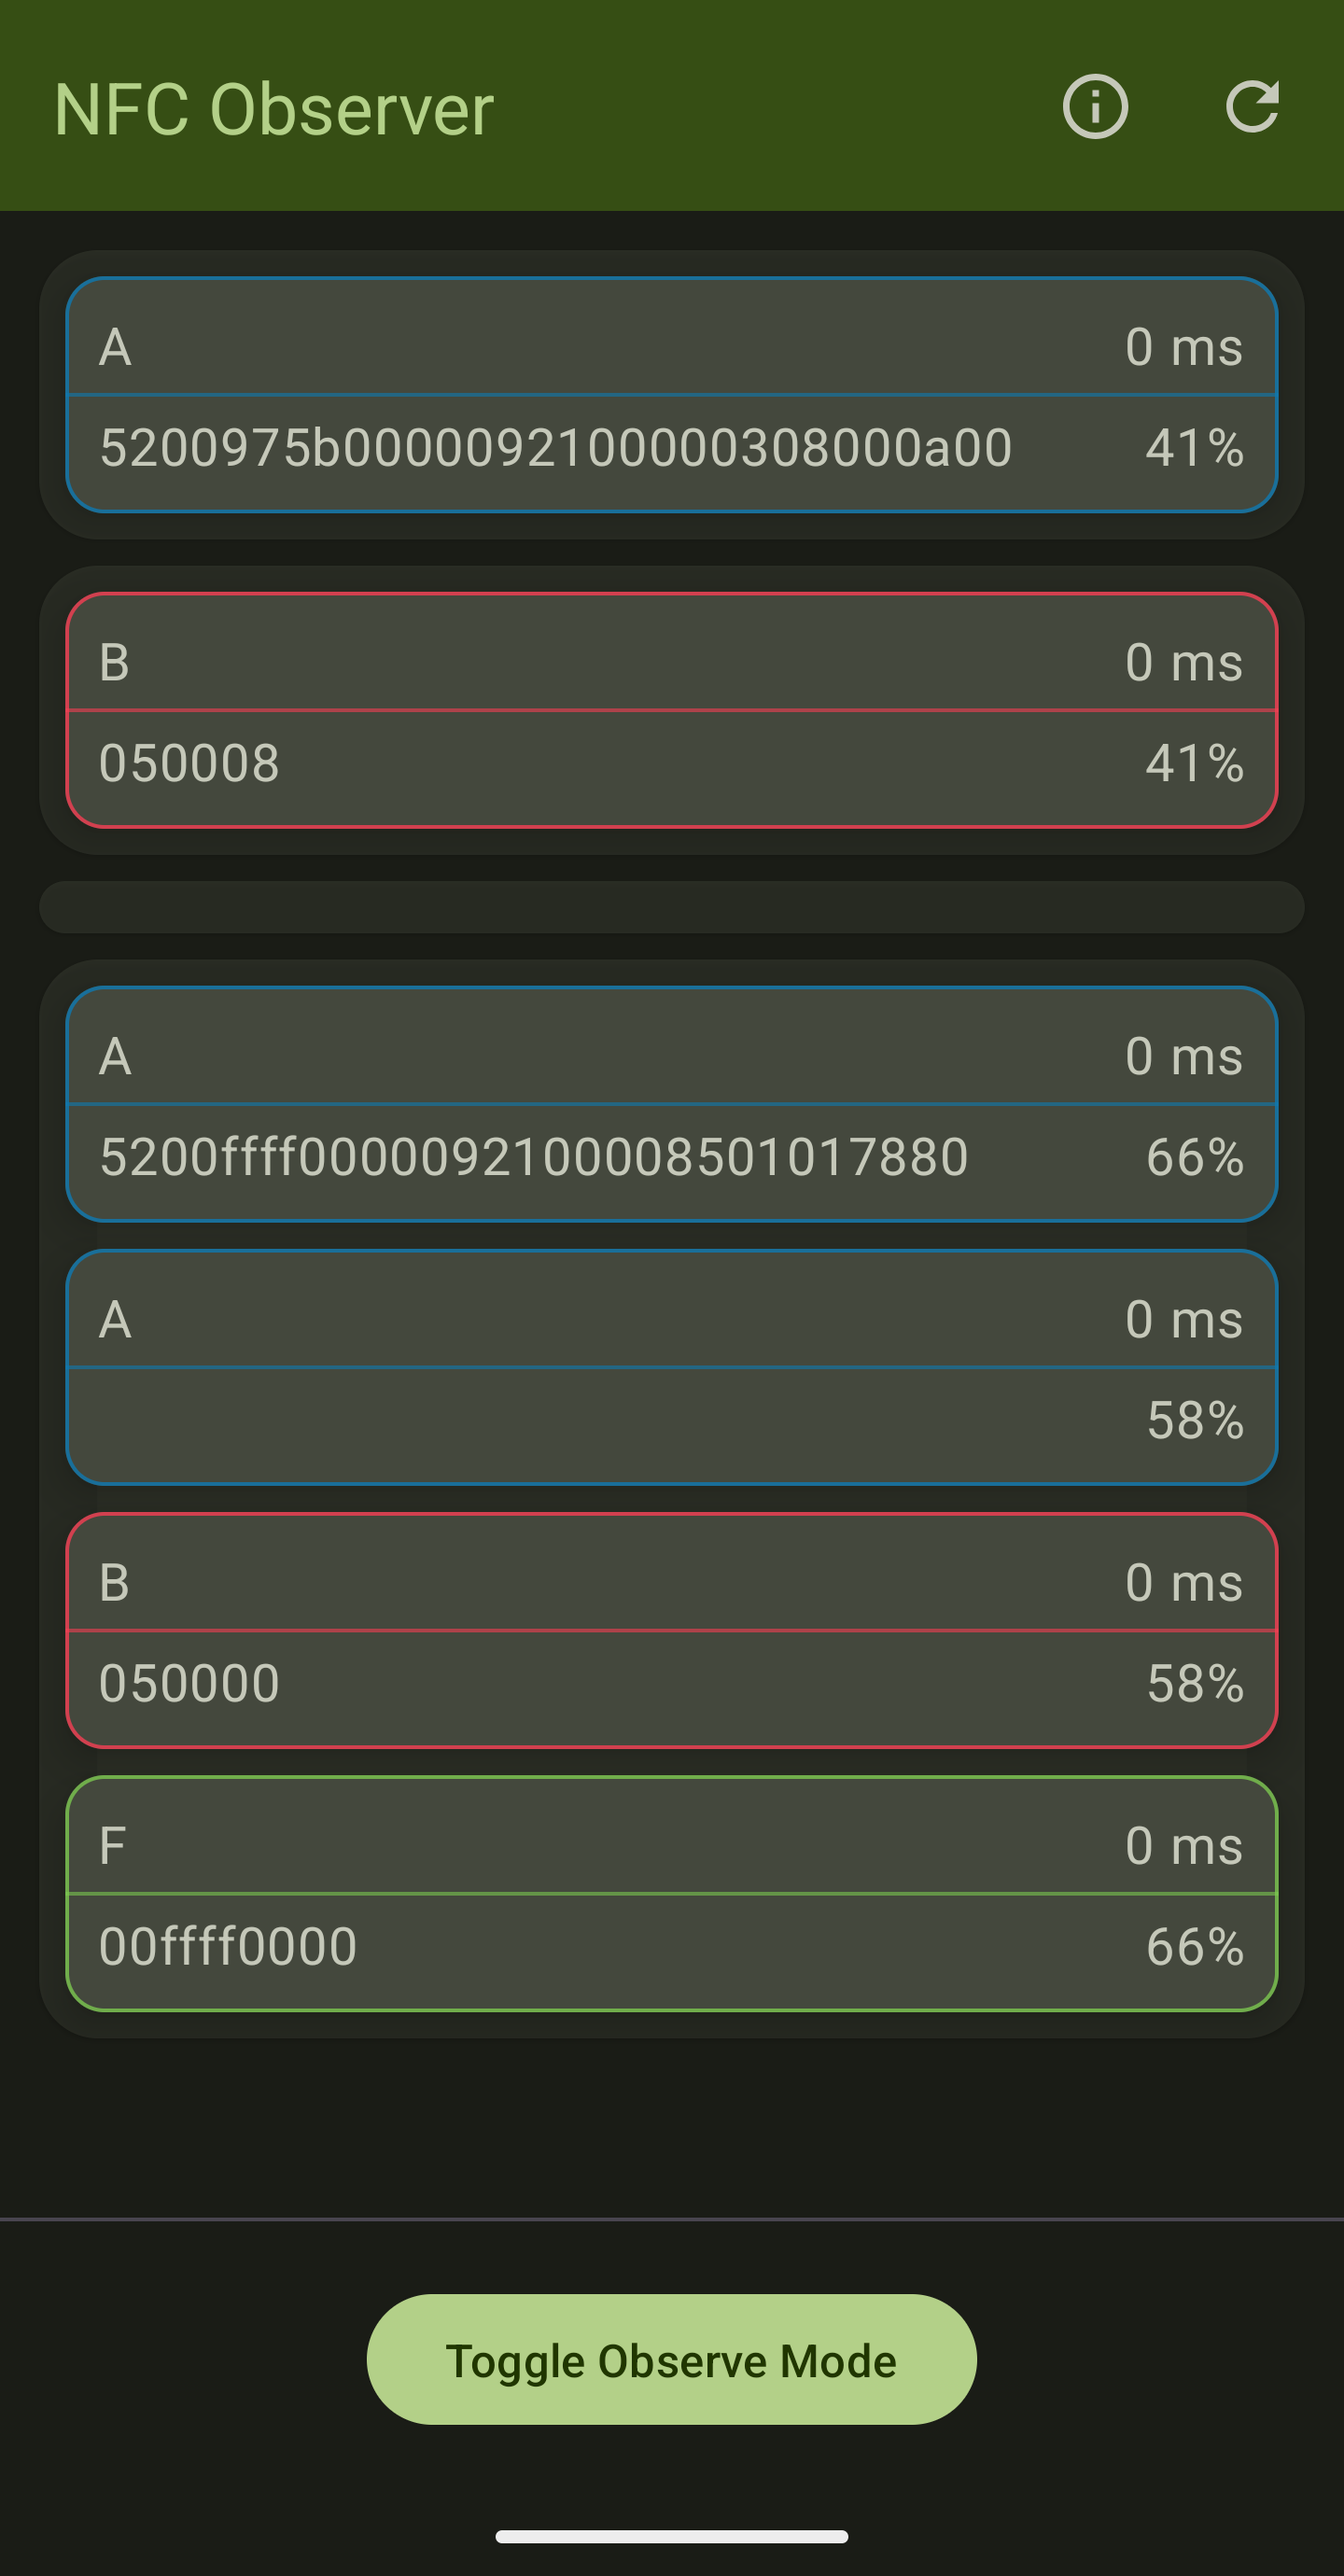
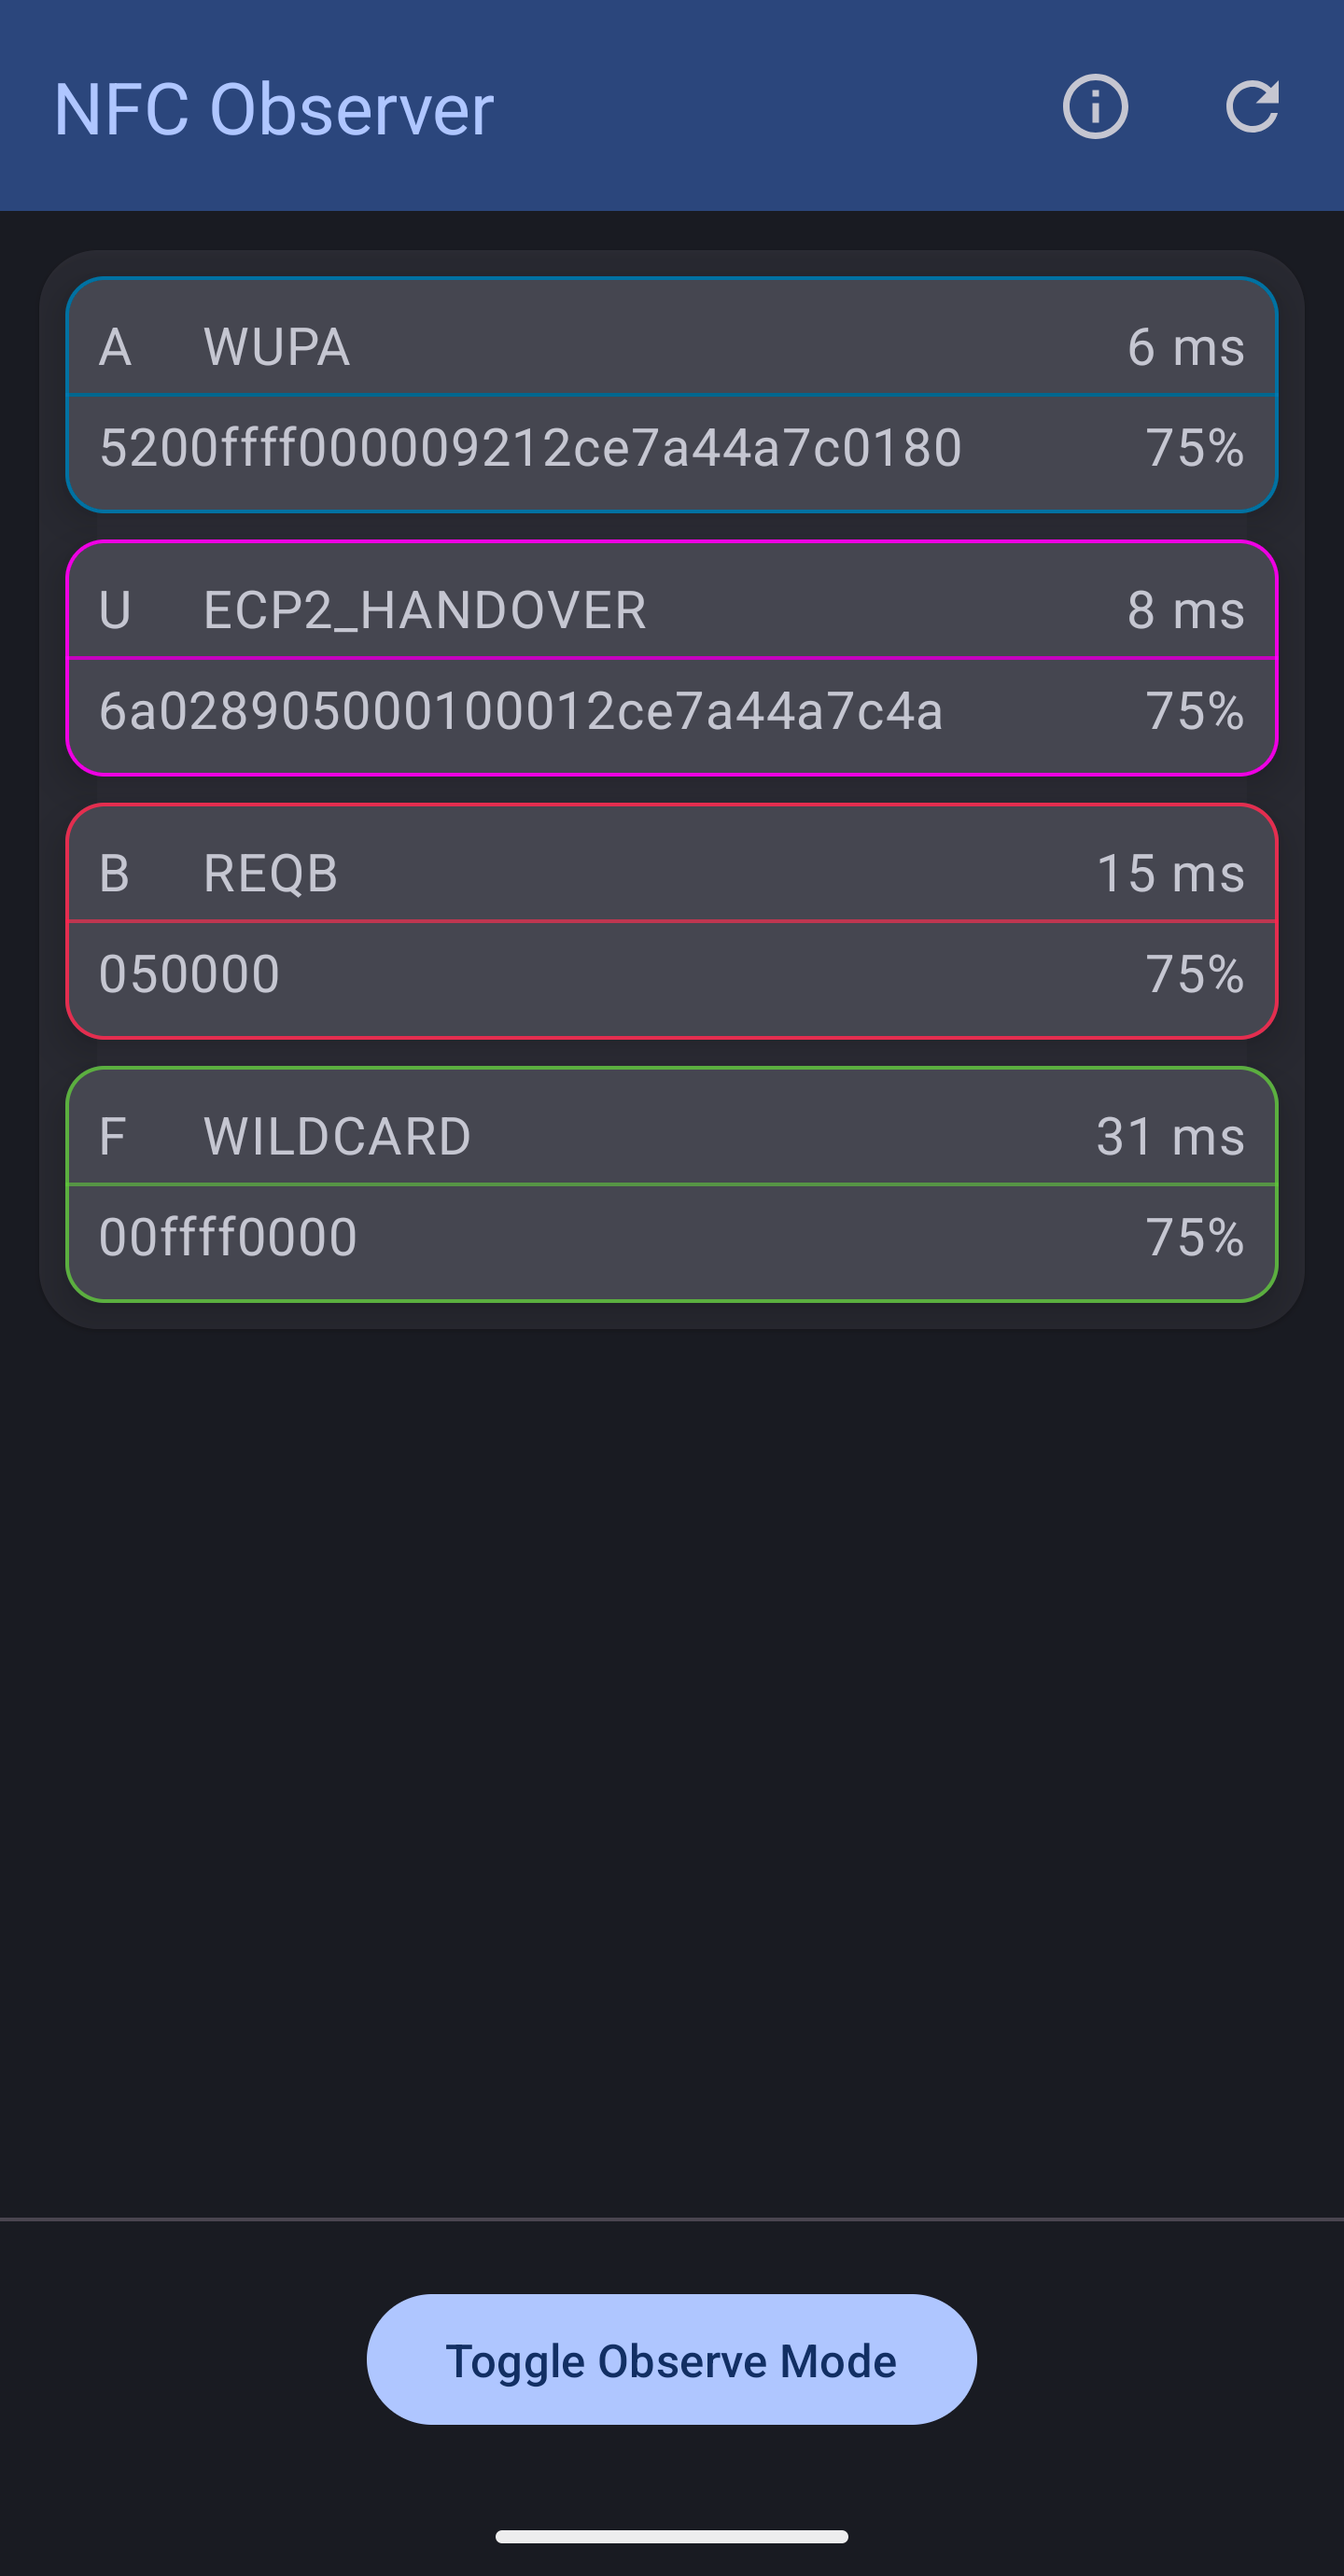
- Parse and display polling loop names if applicable - Slight startup code improvements - Slight changes to polling loop event component

diff --git a/app/src/main/java/com/kormax/observemodedemo/Utilities.kt b/app/src/main/java/com/kormax/observemodedemo/Utilities.kt
@@ -8,6 +8,7 @@ import android.content.Intent
 import android.content.IntentFilter
 import android.nfc.cardemulation.PollingFrame
 import android.os.Parcelable
+import android.util.Log
 import androidx.compose.runtime.Composable
 import androidx.compose.runtime.DisposableEffect
 import androidx.compose.runtime.getValue
@@ -17,6 +18,7 @@ import androidx.compose.ui.platform.LocalContext
 import kotlinx.parcelize.Parcelize
 import java.time.Instant
 import java.time.Instant.now
+import kotlin.experimental.and
 import kotlin.math.ceil
 
 class Constants {
@@ -32,7 +34,7 @@ class Constants {
 
 @Parcelize
 class PollingLoopEvent(
-    val delta: Long,
+    var delta: Long,
     val type: Int,
     val data: ByteArray,
     val vendorSpecificGain: Int,
@@ -43,14 +45,134 @@ class PollingLoopEvent(
         frame.timestamp, frame.type, frame.data, frame.vendorSpecificGain, now()
     )
 
+    constructor(frame: PollingFrame, delta: Long) : this(
+        frame.timestamp - delta, frame.type, frame.data, frame.vendorSpecificGain, now()
+    )
+
     companion object {
         val A = PollingFrame.POLLING_LOOP_TYPE_A
         val B = PollingFrame.POLLING_LOOP_TYPE_B
         val F = PollingFrame.POLLING_LOOP_TYPE_F
         val ON = PollingFrame.POLLING_LOOP_TYPE_ON
         val OFF = PollingFrame.POLLING_LOOP_TYPE_OFF
+        val UNKNOWN = PollingFrame.POLLING_LOOP_TYPE_UNKNOWN
+        val PLACEHOLDER = PollingLoopEvent(-1, 0, ByteArray(0), 0, now())
+    }
+
+    val name: String
+        get() {
+            val hex = data.toHexString()
+            if (type == A) {
+                if (hex.startsWith("52")) {
+                    return "WUPA"
+                } else if (hex.startsWith("26")) {
+                    return "REQA"
+                }
+            }
+
+            if (type == B) {
+                if (hex.startsWith("05")) {
+                    if ((data.last() and 0x08.toByte()) > 0) {
+                        return "WUPB"
+                    } else {
+                        return "REQB"
+                    }
+                } else if (hex == "0600") {
+                    return "INITIATE"
+                }
+            }
+
+            if (type == F) {
+                return parseFeliCaSystemCode(hex.substring(2, 6))
+            }
+
+            if (hex.startsWith("6a01")) {
+                return parseECP1(hex)
+            } else if (hex.startsWith("6a02")) {
+                return parseECP2(hex)
+            } else if (hex.startsWith("7") && hex.length == 2) {
+                return "MAGWUP_" + when(hex) {
+                    "7a" -> "A"
+                    "7b" -> "B"
+                    "7c" -> "C"
+                    "7d" -> "D"
+                    else -> "U"
+                }
+            } else if (hex.endsWith("0a")) {
+                return "ACTALL"
+            }
+
+            if (type == UNKNOWN) {
+                return "PLF"
+            }
+            return "UNKNOWN"
+        }
+}
+
+fun parseFeliCaSystemCode(systemCode: String): String {
+    Log.i("Utilities", "SystemCode" + systemCode)
+    return when(systemCode.uppercase()) {
+        "FFFF" -> "WILDCARD"
+        "0003" -> "CJRC"
+        "8008" -> "OCTOPUS"
+        "FE00" -> "COMMON_AREA"
+        "12FC" -> "NDEF"
+        else -> "UNKNOWN"
     }
 }
+
+fun parseECPTransitTCI(tci: String): String = when(tci.uppercase()) {
+    "030000" -> "VENTRA"
+    "030400" -> "HOPCARD"
+    "030002" -> "TFL"
+    "030001" -> "WMATA"
+    "030005" -> "LATAP"
+    "030007" -> "CLIPPER"
+    else -> "UNKNOWN"
+}
+
+
+fun parseECPAccessSubtype(value: String) = when(value) {
+    "00" -> "UNIVERSITY"
+    "01" -> "AUTOMOTIVE"
+    "08" -> "AUTOMOTIVE"
+    "09" -> "AUTOMOTIVE"
+    "0A" -> "AUTOMOTIVE"
+    "0B" -> "AUTOMOTIVE"
+    "06" -> "HOME"
+    else -> "UNKNOWN"
+}
+
+fun parseECP2(value: String): String {
+    if (value.length < 8) {
+        return "ECP2_UNKNOWN"
+    }
+    return "ECP2_" + when(value.substring(6, 8)) {
+        "01" -> "TRANSIT_" + parseECPTransitTCI(value.substring(10, 16))
+        "02" -> "ACCESS_" + parseECPAccessSubtype(value.substring(8, 10))
+        "03" -> "IDENTITY"
+        "05" -> "HANDOVER"
+        else -> "UNKNOWN"
+    }
+}
+
+fun parseECP1(value: String): String {
+    return "ECP1_" + when (value) {
+        "6a01000000" -> "VAS_OR_PAYMENT"
+        "6a01000001" -> "VAS_AND_PAYMENT"
+        "6a01000002" -> "VAS_ONLY"
+        "6a01000003" -> "PAY_ONLY"
+        "6a01cf0000" -> "IGNORE"
+        "6a01c30000" -> "GYMKIT"
+        else -> {
+            if (value.startsWith("6a0103")) {
+                return "ECP1_TRANSIT_" + parseECPTransitTCI(value.substring(4))
+            }
+            return "ECP1_UNKNOWN"
+        }
+    }
+}
+
 
 
 @Composable
@@ -101,11 +223,23 @@ fun Context.findActivity(): Activity? = when (this) {
 }
 
 
-fun mapTimestampToTimeText(milliseconds: Long): String {
+fun mapTimestampToTimeText(microseconds: Long): String {
     return when {
-        milliseconds < 1000 -> "$milliseconds ms"
-        milliseconds < 60_000 -> String.format("%.2f sec", milliseconds / 1000.0)
-        else -> String.format("%.2f min", milliseconds / 60000.0)
+        microseconds >= 60_000_000 -> {
+            val minutes = ceil(microseconds / 60_000_000.0).toInt()
+            "$minutes min"
+        }
+        microseconds >= 1_000_000 -> {
+            val seconds = ceil(microseconds / 1_000_000.0).toInt()
+            "$seconds s"
+        }
+        microseconds >= 1_000 -> {
+            val milliseconds = ceil(microseconds / 1_000.0).toInt()
+            "$milliseconds ms"
+        }
+        else -> {
+            "$microseconds us"
+        }
     }
 }
 
@@ -126,7 +260,8 @@ fun mapPollingFrameTypeToNameAndColor(type: Int) = when (type) {
     PollingLoopEvent.F -> ("F" to Color(0xFF7AC74F))
     PollingLoopEvent.OFF -> ("X" to Color.DarkGray)
     PollingLoopEvent.ON -> ("O" to Color.White)
-    else -> "U${type}" to Color.Magenta
+    PollingLoopEvent.UNKNOWN -> ("U" to Color.Magenta)
+    else -> "U(${type})" to Color.Magenta
 }
 
 fun mapPollingFrameTypeToName(type: Int) = mapPollingFrameTypeToNameAndColor(type).first

diff --git a/app/src/main/java/com/kormax/observemodedemo/MainActivity.kt b/app/src/main/java/com/kormax/observemodedemo/MainActivity.kt
@@ -19,6 +19,7 @@ import androidx.compose.foundation.layout.Column
 import androidx.compose.foundation.layout.IntrinsicSize
 import androidx.compose.foundation.layout.PaddingValues
 import androidx.compose.foundation.layout.Row
+import androidx.compose.foundation.layout.Spacer
 import androidx.compose.foundation.layout.fillMaxSize
 import androidx.compose.foundation.layout.fillMaxWidth
 import androidx.compose.foundation.layout.padding
@@ -55,6 +56,7 @@ import androidx.compose.runtime.setValue
 import androidx.compose.ui.Alignment
 import androidx.compose.ui.Modifier
 import androidx.compose.ui.graphics.Color
+import androidx.compose.ui.text.style.TextAlign
 import androidx.compose.ui.unit.dp
 import com.kormax.observemodedemo.ui.theme.ObserveModeDemoTheme
 import kotlinx.coroutines.launch
@@ -321,7 +323,8 @@ class MainActivity : ComponentActivity() {
         }
 
         try {
-            if (!nfcAdapter.setObserveModeEnabled(true)) {
+            val observeModeEnabled = nfcAdapter.isObserveModeEnabled
+            if (!observeModeEnabled && !nfcAdapter.setObserveModeEnabled(true)) {
                 errors += "Unable to enable Observe Mode"
             }
             if (!cardEmulation.removeAidsForService(component, "payment")) {
@@ -412,14 +415,20 @@ fun PollingEventItem(event: PollingLoopEvent) {
                     top = 10.dp,
                     start = 10.dp,
                     end = 10.dp
-                ), horizontalArrangement = Arrangement.SpaceBetween
+                ).fillMaxWidth(),
             ) {
                 Text(
                     text = type,
-                    modifier = Modifier.weight(1f),
+                    modifier = Modifier.width(32.dp)
                 )
+
+                Text (
+                    text = event.name
+                )
+
                 Text(
-                    text = timestamp, modifier = Modifier
+                    textAlign = TextAlign.End,
+                    text = timestamp, modifier = Modifier.fillMaxWidth()
                 )
             }
             if (dataGainDisplayed) {

diff --git a/app/src/main/java/com/kormax/observemodedemo/ObserveModeHostApduService.kt b/app/src/main/java/com/kormax/observemodedemo/ObserveModeHostApduService.kt
@@ -9,6 +9,7 @@ import android.util.Log
 
 class ObserveModeHostApduService : HostApduService() {
     private val TAG = this::class.java.simpleName
+    private var DELTA = -1L
 
     override fun processCommandApdu(commandApdu: ByteArray, extras: Bundle?): ByteArray {
         Log.i(TAG, "processCommandApdu(${commandApdu.toHexString()}, ${extras})")
@@ -23,8 +24,11 @@ class ObserveModeHostApduService : HostApduService() {
         })")
 
         for (frame in frames) {
+            if (frame.type == PollingFrame.POLLING_LOOP_TYPE_ON) {
+                DELTA = frames[0].timestamp
+            }
             sendBroadcast(Intent(Constants.POLLING_LOOP_EVENT_ACTION).apply {
-                putExtra(Constants.POLLING_LOOP_EVENT_DATA_KEY, PollingLoopEvent(frame))
+                putExtra(Constants.POLLING_LOOP_EVENT_DATA_KEY, PollingLoopEvent(frame, DELTA))
             })
         }
     }

diff --git a/README.md b/README.md
@@ -51,8 +51,8 @@ A user can choose between two display modes:
 # Potential improvements
 
 * ~~Improve the UI by displaying polling frames inside of the RF field activity block instead of displaying field ON and OFF events as separate blocks.~~;
-* Add an ability to parse out and display additional information about the polling frame:
-  * Polling frame names, including custom ones;
+* Add an ability to parse out and display additional information about the polling frame (WIP):
+  * ~~Polling frame names, including custom ones~~;
   * Type B:
     * Timeslot count;
     * AFI.
